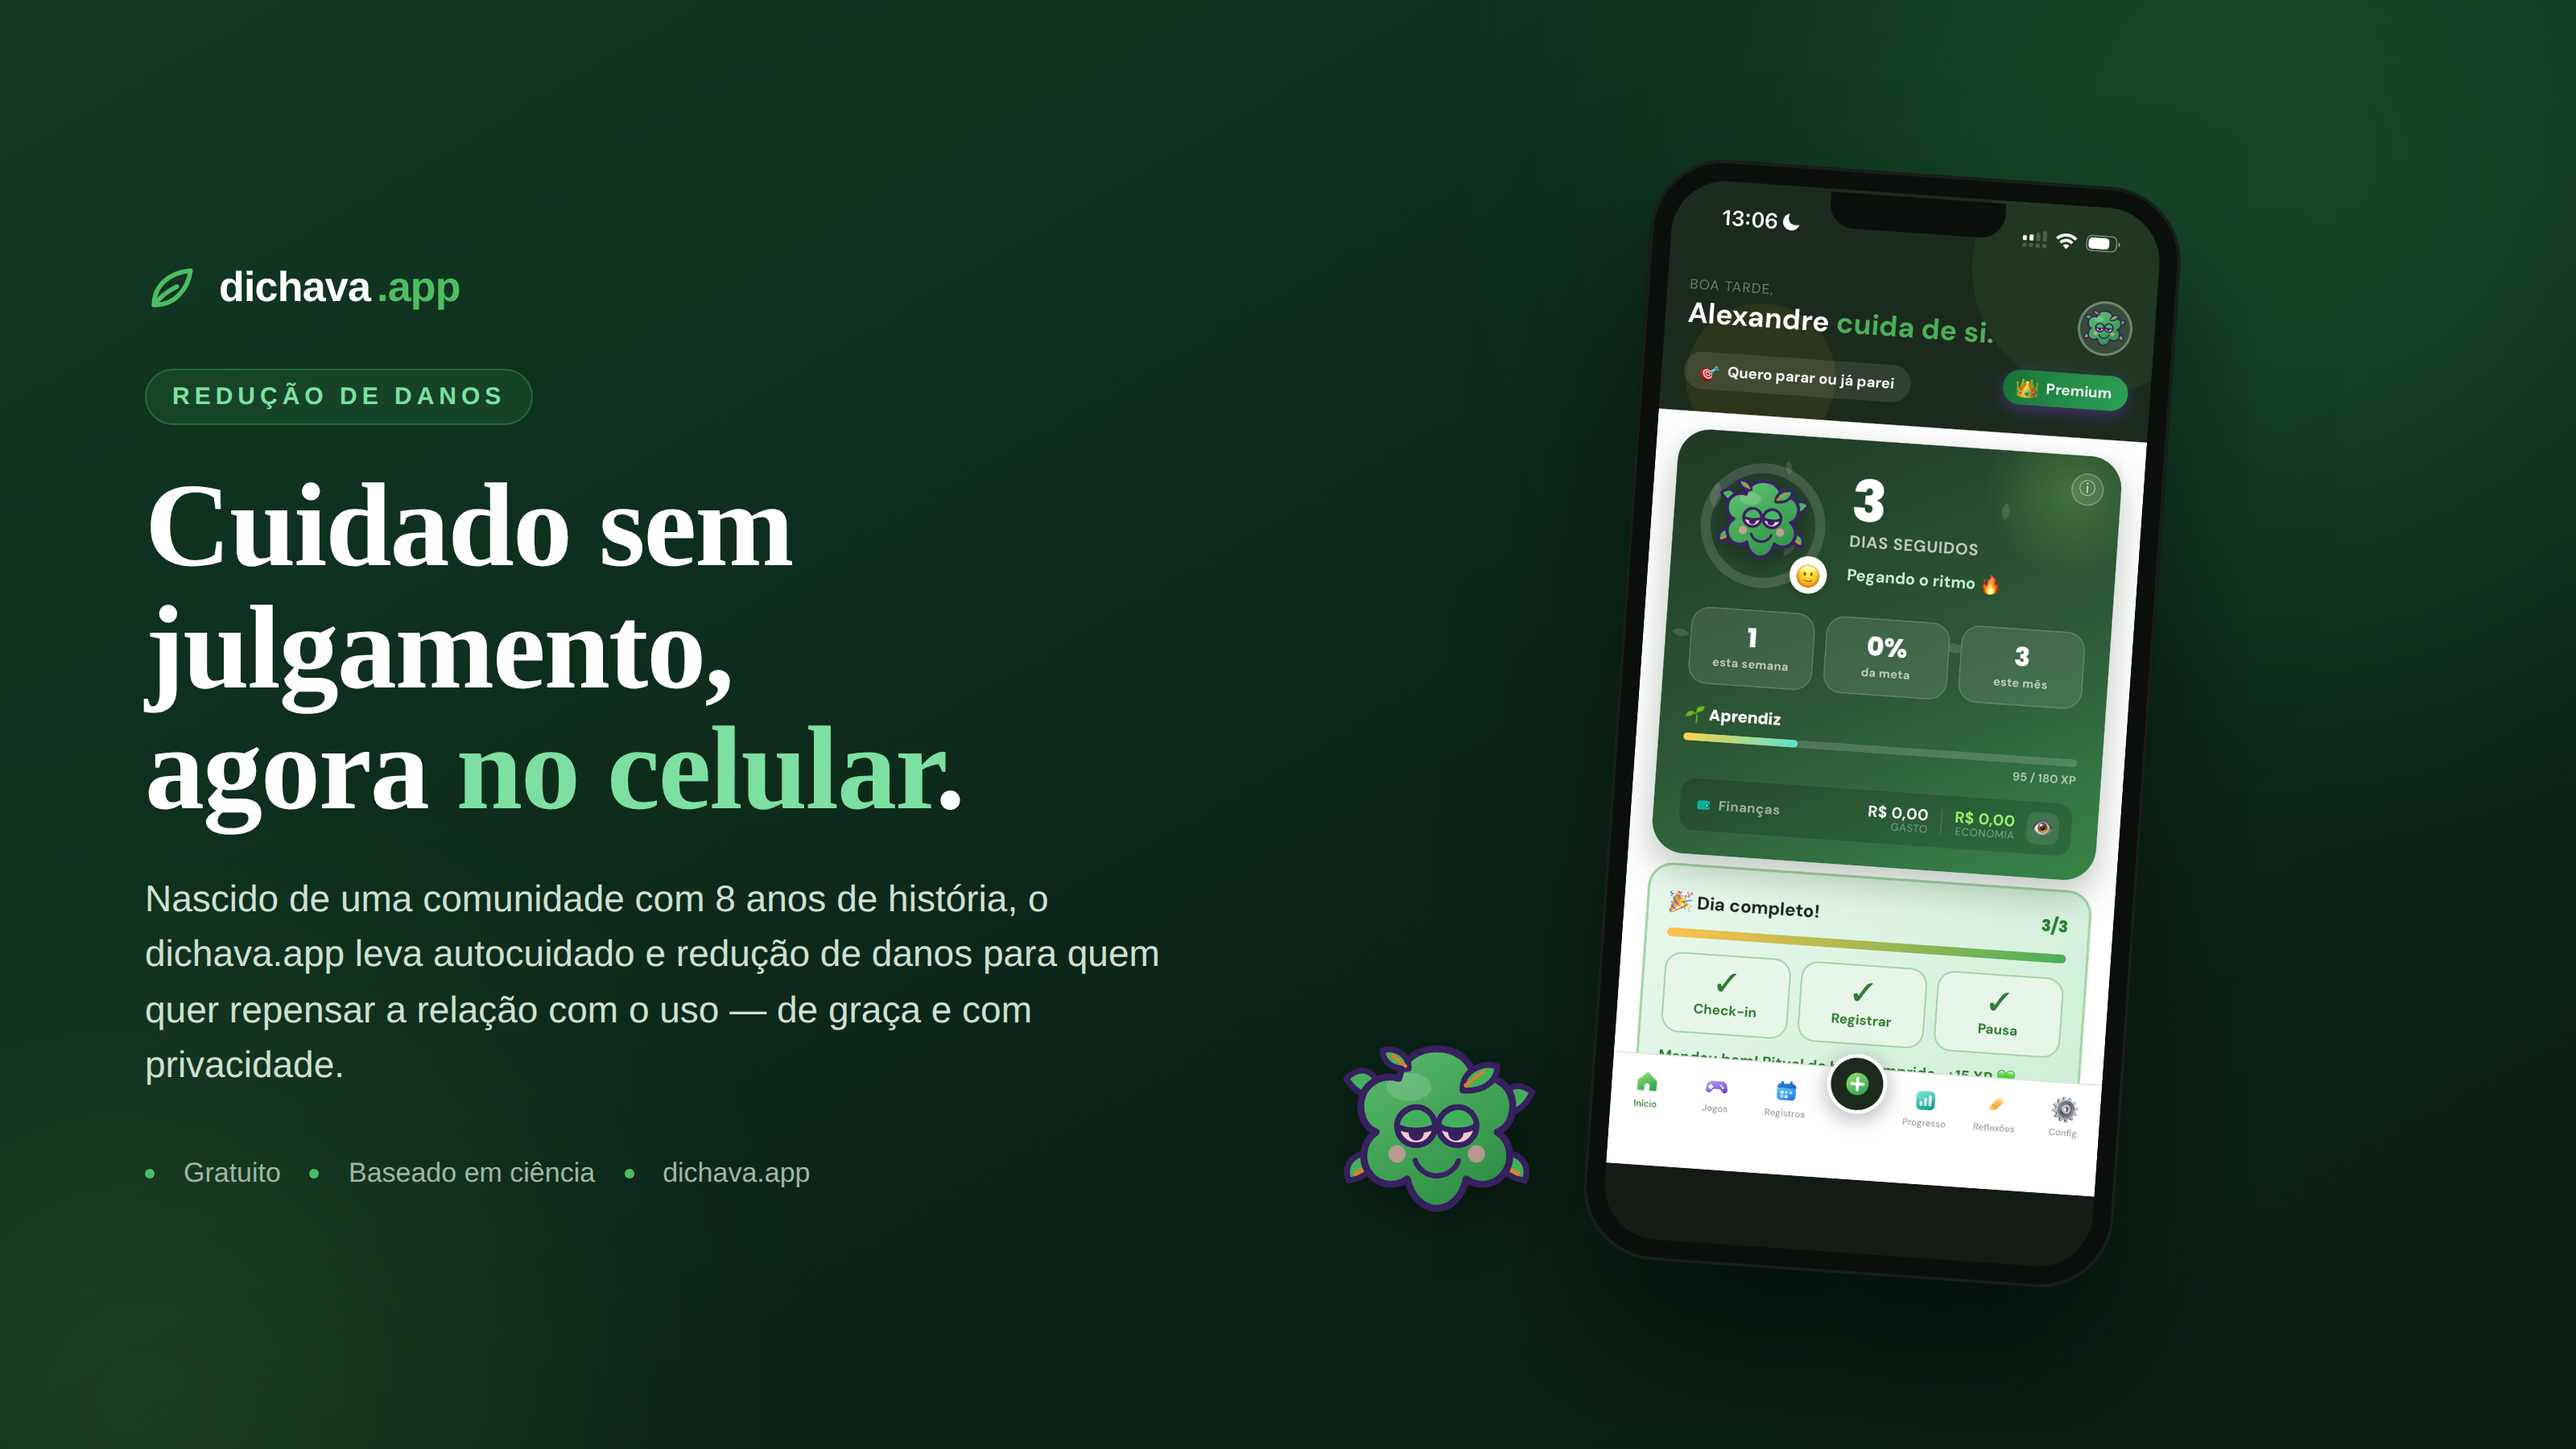
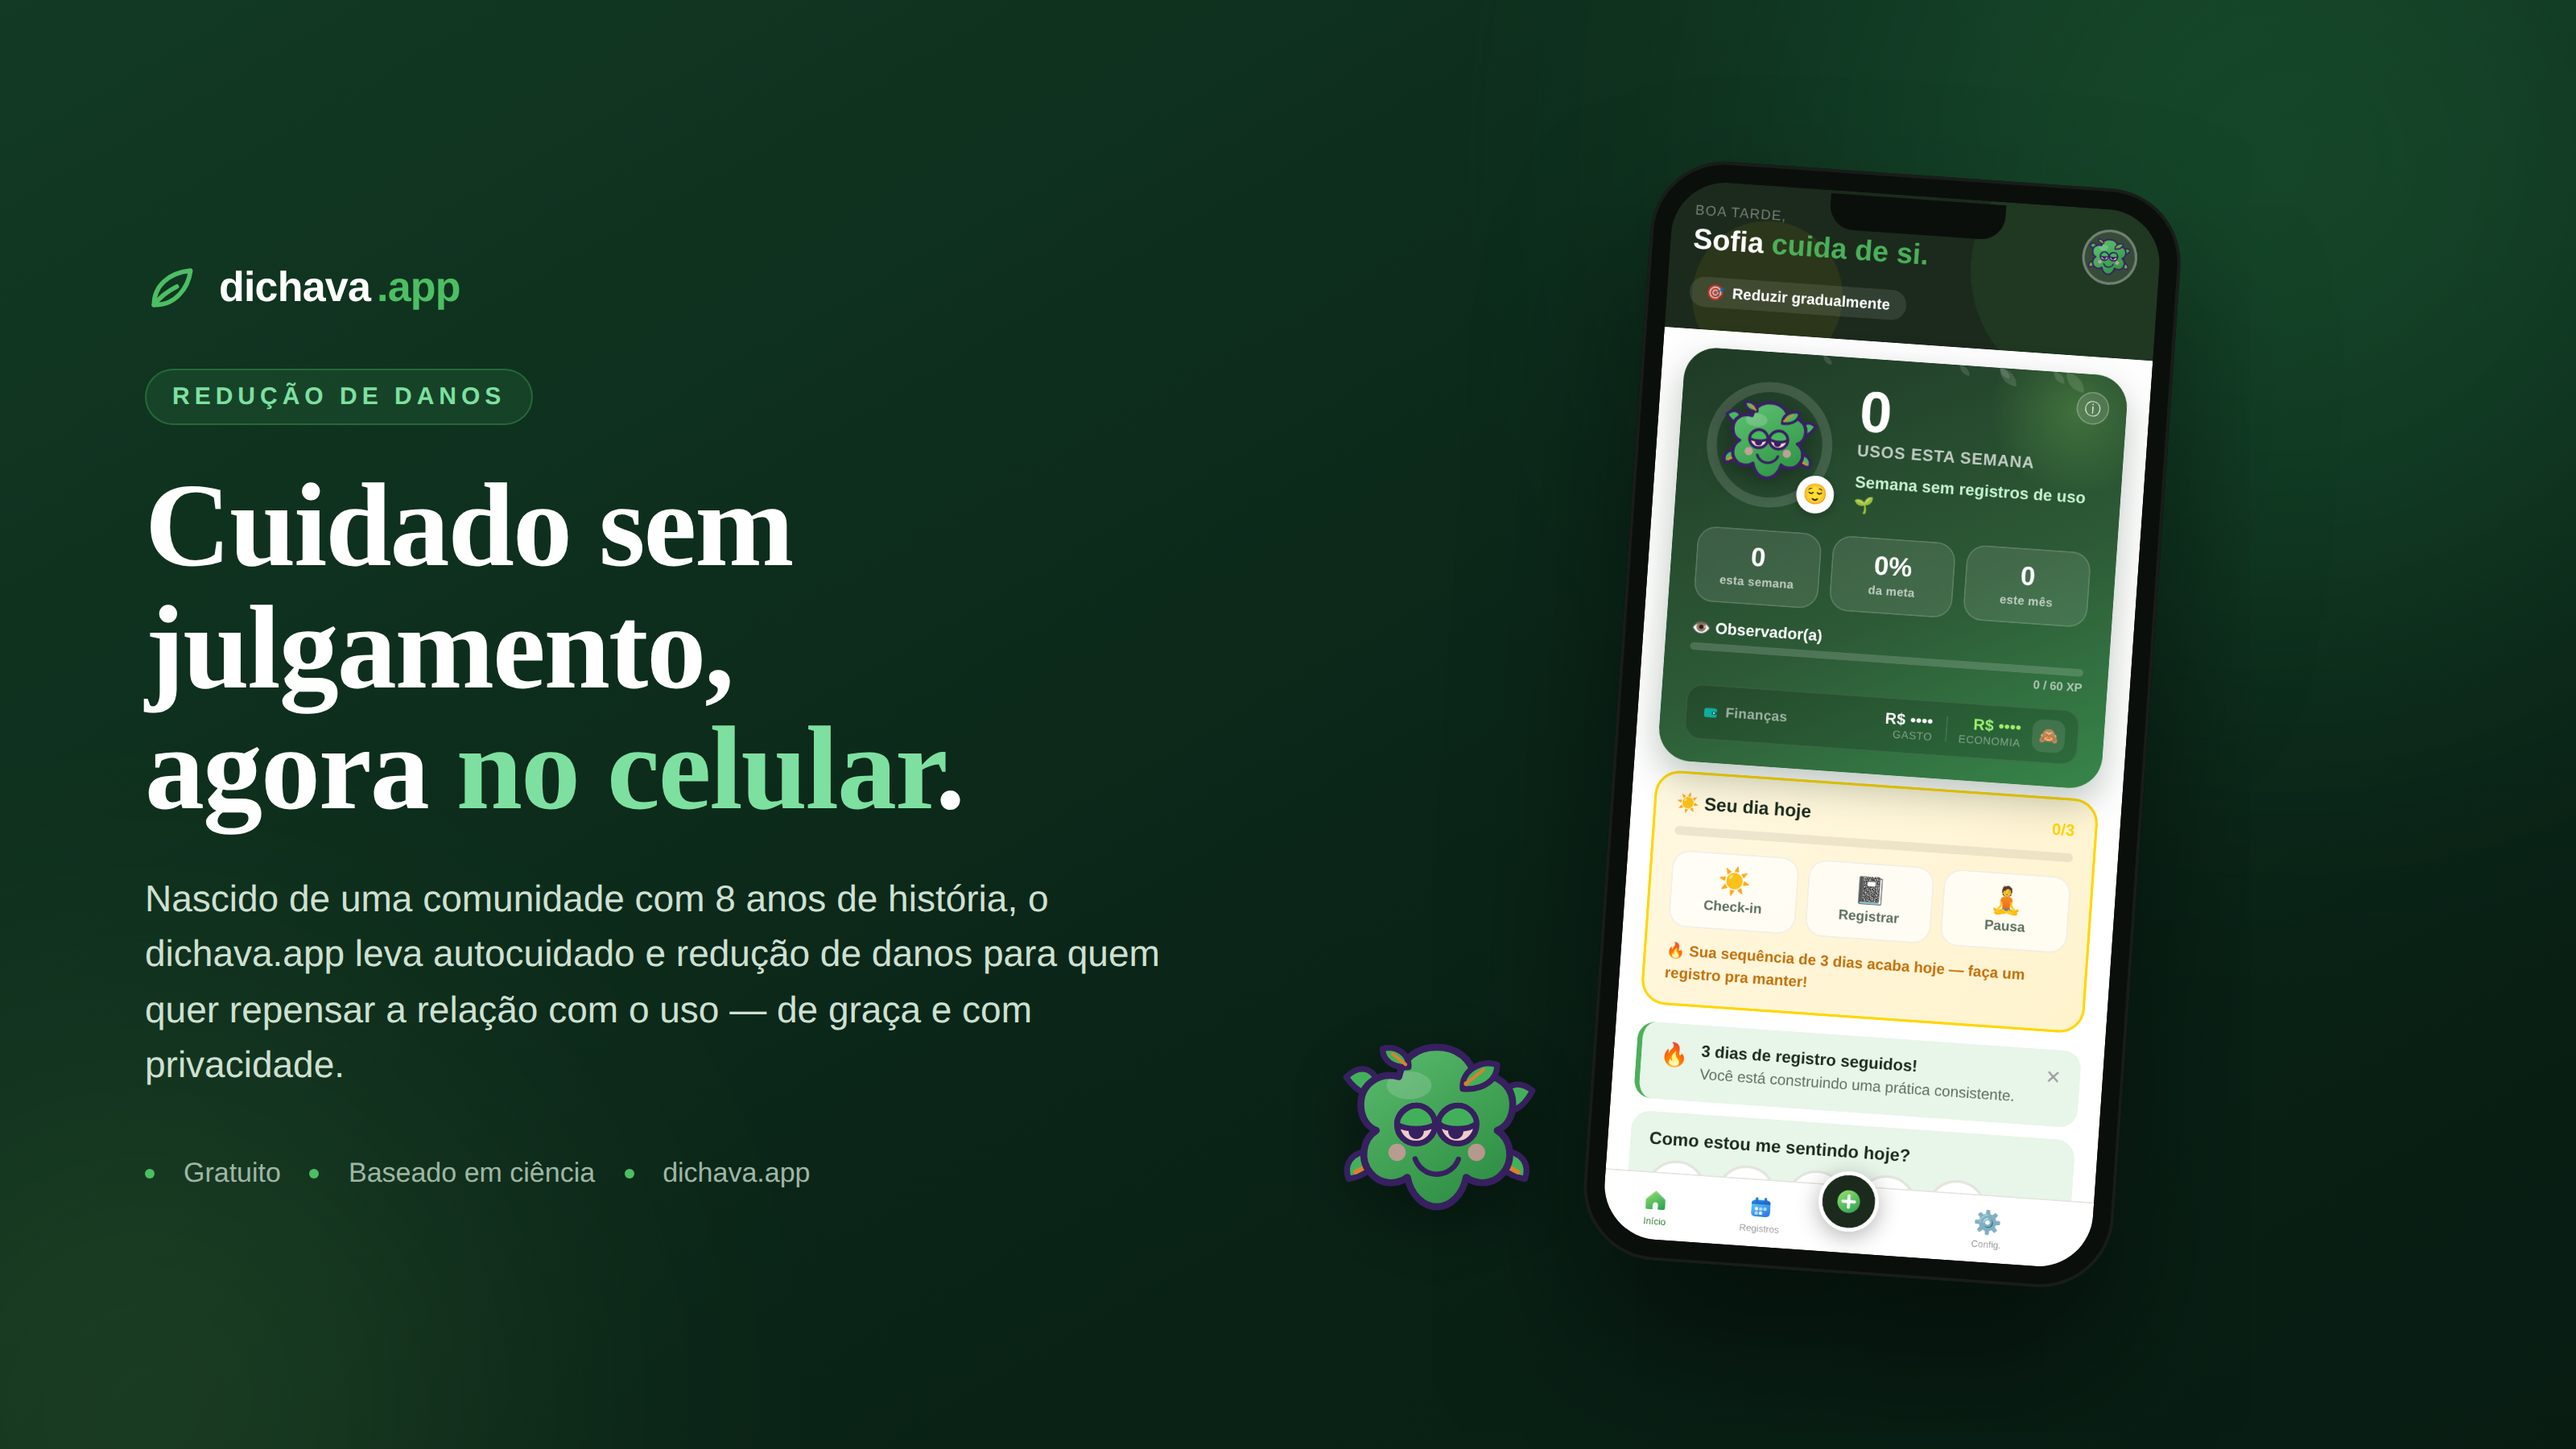
Corrige tela 'bem-vindo ao premium' vazando + prints de imprensa sem Premium
- checkPremWelcome desativado: como isPremium=true no lancamento, a tela
  de boas-vindas ao premium aparecia 1x para todo usuario novo. Agora nunca
  aparece (app 100% gratuito, premium oculto)
- Capa, trio e print-inicio da imprensa regenerados com a home real atual
  (sem a coroa 'Premium'), via modo demonstracao

Claude-Session: https://claude.ai/code/session_0111gweRv5wWwu7HZWy5W6Hp

Changed region(s): [[0.625, 0.1244, 0.8438, 0.8711], [0.5312, 0.7156, 0.5938, 0.84]]

diff --git a/index.html b/index.html
@@ -9079,6 +9079,7 @@ async function carregarPlano(){
 }
 // mostra a tela de boas-vindas ao premium UMA ÚNICA VEZ (quando a pessoa vira premium)
 function checkPremWelcome(){
+  return; // LANÇAMENTO: premium oculto/gratuito — não mostra a tela de "bem-vindo ao premium"
   if(!isPremium())return;
   var k='dr_premwelcome_'+uid();
   try{if(localStorage.getItem(k))return;}catch(e){}

diff --git a/sw.js b/sw.js
@@ -1,5 +1,5 @@
 // dichava.app — service worker v228
-const CACHE = 'dichavard-v395';
+const CACHE = 'dichavard-v396';
 const ASSETS = ['./', './index.html'];
 
 self.addEventListener('install', e => {
